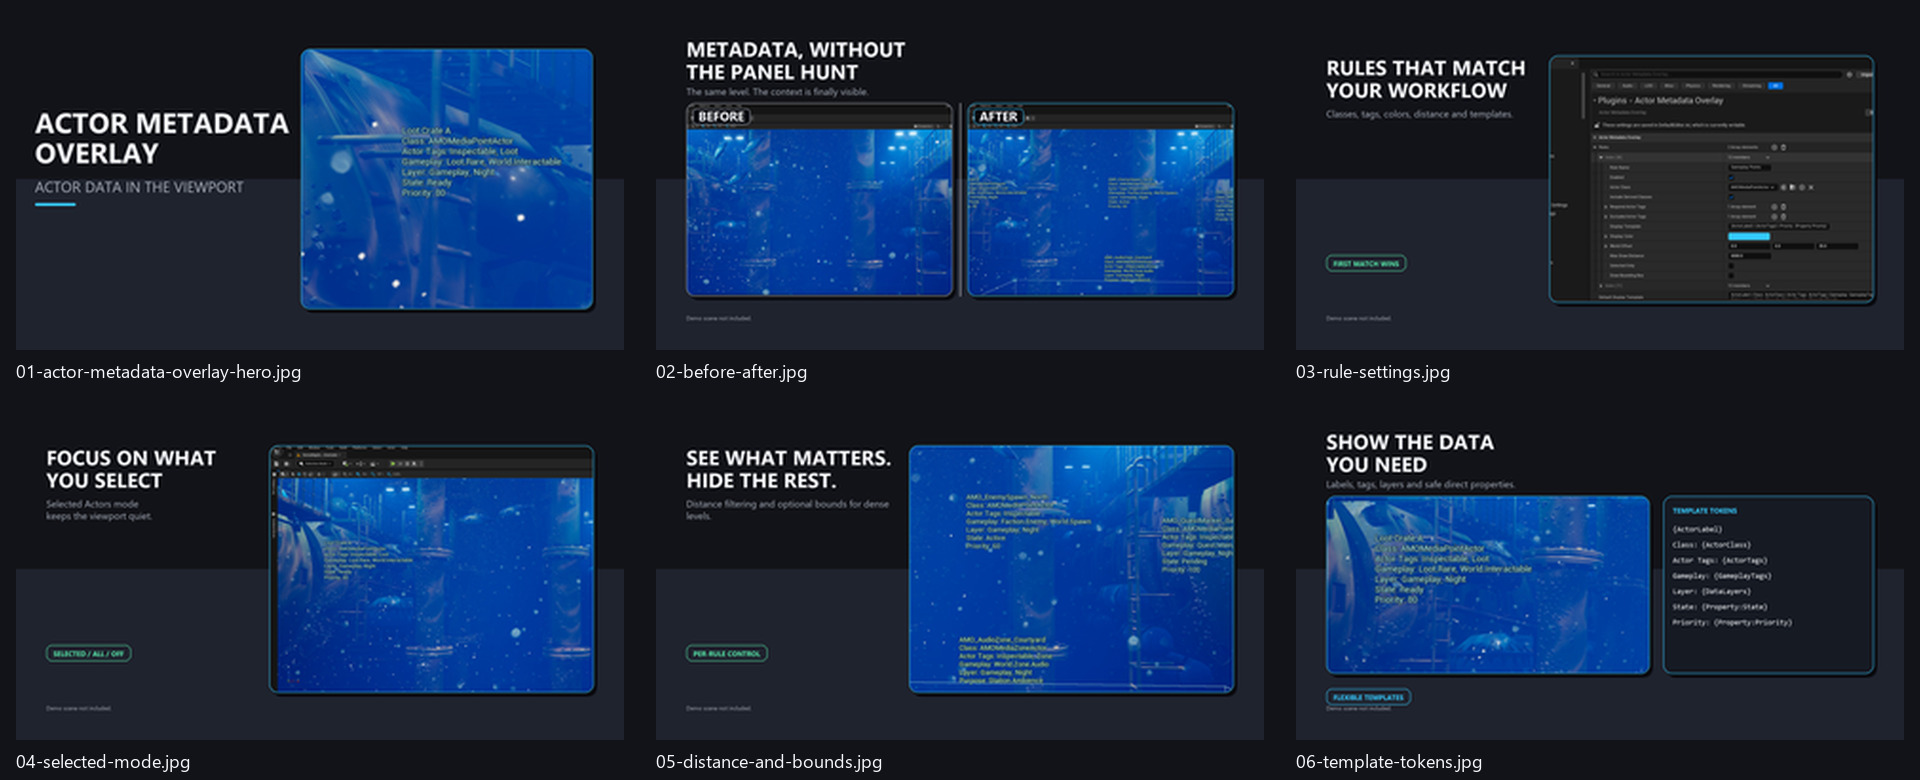
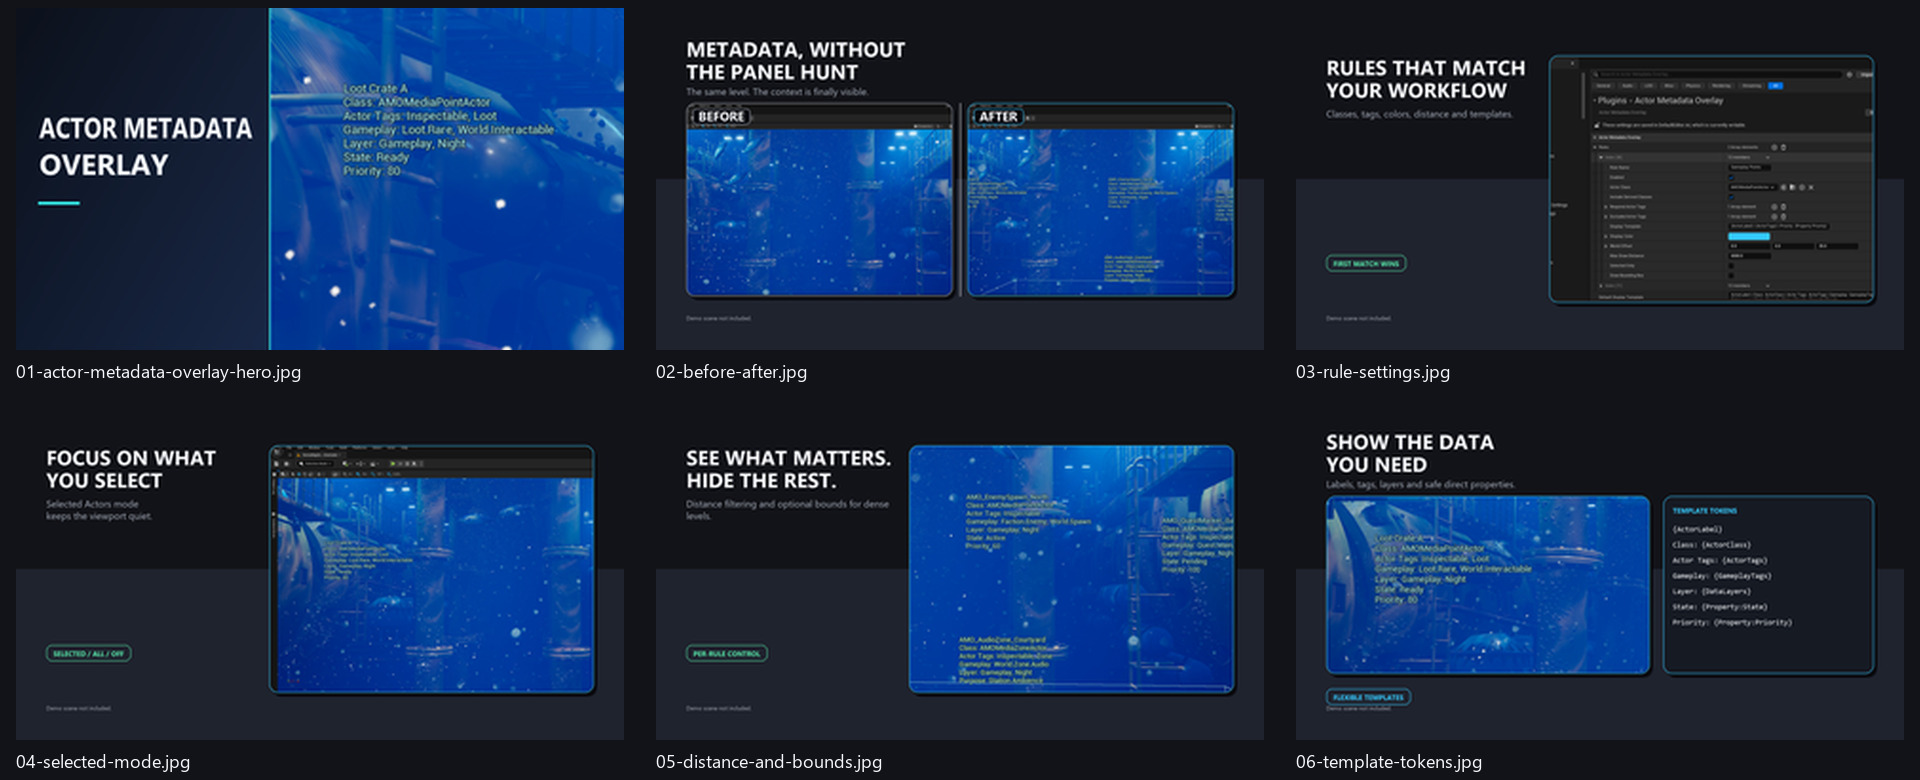
docs: adopt full-bleed Fab Hero

Changed region(s): [[0.0, 0.0, 0.3438, 0.4615]]

diff --git a/Marketing/Fab/source/generate-fab-media.py b/Marketing/Fab/source/generate-fab-media.py
@@ -1,12 +1,13 @@
 from __future__ import annotations
 
+import argparse
 import hashlib
 import json
 from datetime import datetime, timezone
 from pathlib import Path
 from typing import Iterable
 
-from PIL import Image, ImageColor, ImageDraw, ImageFont
+from PIL import Image, ImageColor, ImageDraw, ImageEnhance, ImageFont
 
 
 REPO_ROOT = Path(__file__).resolve().parents[3]
@@ -29,12 +30,11 @@ MEDIA = [
         "order": 1,
         "filename": "01-actor-metadata-overlay-hero.jpg",
         "role": "thumbnail",
-        "layout": "Hero",
+        "layout": "HeroFullBleed",
         "source": "hero-all.png",
-        "crop": "heroTight",
-        "displayCrop": "heroTight",
+        "crop": "heroFullBleedC",
         "title": "ACTOR METADATA\nOVERLAY",
-        "tagline": "ACTOR DATA IN THE VIEWPORT",
+        "tagline": "",
         "proof": "",
     },
     {
@@ -407,6 +407,73 @@ def layout_hero(spec: dict, screenshot: Image.Image) -> Image.Image:
     return image
 
 
+def draw_horizontally_fitted_title(
+    image: Image.Image,
+    text: str,
+    position: tuple[int, int],
+    max_width: int,
+) -> None:
+    used_font = font("bold", "heroTitle")
+    left, top, right, bottom = used_font.getbbox(text)
+    text_layer = Image.new("RGBA", (right - left + 8, bottom - top + 8), (0, 0, 0, 0))
+    text_draw = ImageDraw.Draw(text_layer)
+    text_draw.text(
+        (4 - left, 4 - top),
+        text,
+        font=used_font,
+        fill=ImageColor.getrgb(LAYOUT["layouts"]["HeroFullBleed"]["titleColor"]) + (255,),
+    )
+    if text_layer.width > max_width:
+        text_layer = text_layer.resize((max_width, text_layer.height), Image.Resampling.LANCZOS)
+    image.paste(text_layer, position, text_layer)
+
+
+def layout_hero_full_bleed(spec: dict, screenshot: Image.Image) -> Image.Image:
+    """Render the approved single-capture, full-bleed thumbnail Hero."""
+    layout = LAYOUT["layouts"]["HeroFullBleed"]
+    if spec["tagline"] or spec["proof"]:
+        raise ValueError("HeroFullBleed does not allow tagline or proof text")
+    title_lines = spec["title"].splitlines()
+    if len(title_lines) != 2:
+        raise ValueError("HeroFullBleed requires exactly two title lines")
+
+    left_width = layout["leftWidth"]
+    right_width = layout["rightWidth"]
+    if left_width + right_width != CANVAS_SIZE[0]:
+        raise ValueError("HeroFullBleed regions must fill the canvas width")
+
+    image = Image.new("RGB", CANVAS_SIZE, (0, 0, 0))
+    pixels = image.load()
+    gradient = layout["gradient"]
+    for y in range(CANVAS_SIZE[1]):
+        vertical = y / (CANVAS_SIZE[1] - 1)
+        for x in range(left_width):
+            horizontal = x / (left_width - 1)
+            pixels[x, y] = tuple(
+                int(
+                    gradient["base"][channel]
+                    + gradient["horizontal"][channel] * horizontal
+                    + gradient["vertical"][channel] * vertical
+                )
+                for channel in range(3)
+            )
+
+    adjusted_capture = ImageEnhance.Contrast(screenshot).enhance(layout["contrast"])
+    image.paste(fit_cover(adjusted_capture, (right_width, CANVAS_SIZE[1])), (left_width, 0))
+
+    draw = ImageDraw.Draw(image)
+    draw.rectangle(tuple(layout["dividerBox"]), fill=layout["accentColor"])
+    for title_line, position in zip(title_lines, layout["titlePositions"]):
+        draw_horizontally_fitted_title(
+            image,
+            title_line,
+            tuple(position),
+            layout["titleMaxWidth"],
+        )
+    draw.rectangle(tuple(layout["accentLine"]), fill=layout["accentColor"])
+    return image
+
+
 def layout_c(spec: dict, before: Image.Image, after: Image.Image) -> Image.Image:
     image = base_canvas()
     draw = ImageDraw.Draw(image)
@@ -459,33 +526,46 @@ def sha256(path: Path) -> str:
     return digest.hexdigest()
 
 
-def save_jpeg(image: Image.Image, path: Path) -> None:
+def save_jpeg(
+    image: Image.Image,
+    path: Path,
+    quality: int = 92,
+    optimize: bool = True,
+) -> None:
     path.parent.mkdir(parents=True, exist_ok=True)
-    quality = 92
+    current_quality = quality
     while True:
         image.convert("RGB").save(
             path,
             format="JPEG",
-            quality=quality,
-            optimize=True,
+            quality=current_quality,
+            optimize=optimize,
             subsampling=0,
         )
         if path.stat().st_size <= MAX_JPEG_BYTES:
             return
-        if quality <= 84:
+        if current_quality <= 84:
             raise RuntimeError(f"JPEG remains above 2.8 MB at quality 84: {path}")
-        quality -= 2
+        current_quality -= 2
 
 
-def make_review_outputs(finals: list[Path]) -> None:
+def make_review_outputs(finals: list[Path], hero_preview: Image.Image | None = None) -> None:
     preview_size = (LAYOUT["previews"]["width"], LAYOUT["previews"]["height"])
     REVIEW_ROOT.mkdir(parents=True, exist_ok=True)
     previews: list[tuple[Path, Image.Image]] = []
-    for final in finals:
+    for index, final in enumerate(finals):
+        if index == 0 and hero_preview is not None:
+            previews.append((final, hero_preview.convert("RGB").resize(preview_size, Image.Resampling.LANCZOS)))
+            continue
         with Image.open(final) as source:
             previews.append((final, source.convert("RGB").resize(preview_size, Image.Resampling.LANCZOS)))
 
-    save_jpeg(previews[0][1], REVIEW_ROOT / "thumbnail-preview-320x180.jpg")
+    save_jpeg(
+        previews[0][1],
+        REVIEW_ROOT / "thumbnail-preview-320x180.jpg",
+        quality=95 if hero_preview is not None else 92,
+        optimize=False if hero_preview is not None else True,
+    )
     gallery = Image.new("RGB", (preview_size[0] * 3, preview_size[1] * 2), color("background"))
     for index, (_, preview) in enumerate(previews):
         gallery.paste(preview, ((index % 3) * preview_size[0], (index // 3) * preview_size[1]))
@@ -645,13 +725,23 @@ def write_manifest(finals: list[Path], source_head: str, capture_project: str) -
         "captureEngine": "Unreal Engine 5.8 Level Editor viewport",
         "files": entries,
     }
-    (FAB_ROOT / "media-manifest.json").write_text(
-        json.dumps(manifest, indent=2) + "\n",
-        encoding="utf-8",
+    (FAB_ROOT / "media-manifest.json").write_bytes(
+        (json.dumps(manifest, indent=2) + "\n").encode("utf-8")
     )
 
 
+def parse_args() -> argparse.Namespace:
+    parser = argparse.ArgumentParser(description="Generate Actor Metadata Overlay Fab media.")
+    parser.add_argument(
+        "--hero-only",
+        action="store_true",
+        help="Regenerate only the approved Hero and refresh review/manifest outputs without rewriting gallery finals.",
+    )
+    return parser.parse_args()
+
+
 def main() -> None:
+    args = parse_args()
     source_head, capture_project = parse_source_head()
     validate_all_tokens_capture()
     validate_preview_check()
@@ -681,30 +771,56 @@ def main() -> None:
     if unexpected_existing:
         raise RuntimeError(f"final/ contains unexpected files before generation: {unexpected_existing}")
 
-    for spec in MEDIA:
-        if spec["layout"] == "C":
-            before = load_source(spec["sources"][0], spec["displayCrops"][0], spec["displaySources"][0])
-            after = load_source(spec["sources"][1], spec["displayCrops"][1], spec["displaySources"][1])
-            rendered = layout_c(spec, before, after)
-        else:
-            screenshot = load_source(
-                spec["source"],
-                spec.get("displayCrop", spec["crop"]),
-                spec.get("displaySource"),
-            )
-            if spec["layout"] == "Hero":
-                rendered = layout_hero(spec, screenshot)
-            elif spec["layout"] == "A":
-                rendered = layout_a(spec, screenshot)
-            elif spec["layout"] == "B":
-                rendered = layout_b(spec, screenshot)
-            elif spec["layout"] == "AToken":
-                rendered = layout_a_tokens(spec, screenshot)
-            else:
-                raise ValueError(f"Unknown layout: {spec['layout']}")
-        save_jpeg(rendered, FINAL_ROOT / spec["filename"])
-
     finals = [FINAL_ROOT / item["filename"] for item in MEDIA]
+    preserved_gallery_hashes = {
+        final.name: sha256(final)
+        for final in finals[1:]
+        if final.is_file()
+    }
+    hero_preview: Image.Image | None = None
+
+    if args.hero_only:
+        hero_spec = MEDIA[0]
+        screenshot = load_source(hero_spec["source"], hero_spec["crop"])
+        rendered = layout_hero_full_bleed(hero_spec, screenshot)
+        hero_preview = rendered.copy()
+        save_jpeg(
+            rendered,
+            FINAL_ROOT / hero_spec["filename"],
+            quality=95,
+            optimize=False,
+        )
+        for final in finals[1:]:
+            if not final.is_file():
+                raise FileNotFoundError(f"Hero-only mode requires existing gallery final: {final}")
+            if sha256(final) != preserved_gallery_hashes.get(final.name):
+                raise RuntimeError(f"Hero-only mode changed a gallery final: {final}")
+    else:
+        for spec in MEDIA:
+            if spec["layout"] == "C":
+                before = load_source(spec["sources"][0], spec["displayCrops"][0], spec["displaySources"][0])
+                after = load_source(spec["sources"][1], spec["displayCrops"][1], spec["displaySources"][1])
+                rendered = layout_c(spec, before, after)
+            else:
+                screenshot = load_source(
+                    spec["source"],
+                    spec.get("displayCrop", spec["crop"]),
+                    spec.get("displaySource"),
+                )
+                if spec["layout"] == "HeroFullBleed":
+                    rendered = layout_hero_full_bleed(spec, screenshot)
+                elif spec["layout"] == "Hero":
+                    rendered = layout_hero(spec, screenshot)
+                elif spec["layout"] == "A":
+                    rendered = layout_a(spec, screenshot)
+                elif spec["layout"] == "B":
+                    rendered = layout_b(spec, screenshot)
+                elif spec["layout"] == "AToken":
+                    rendered = layout_a_tokens(spec, screenshot)
+                else:
+                    raise ValueError(f"Unknown layout: {spec['layout']}")
+            save_jpeg(rendered, FINAL_ROOT / spec["filename"])
+
     actual_final_names = sorted(path.name for path in FINAL_ROOT.glob("*.jpg"))
     expected_final_names = sorted(expected_final_names)
     if actual_final_names != expected_final_names:
@@ -712,9 +828,18 @@ def main() -> None:
     total_bytes = sum(path.stat().st_size for path in finals)
     if total_bytes >= MAX_TOTAL_BYTES:
         raise RuntimeError(f"Final image total is >= 20 MB: {total_bytes}")
-    make_review_outputs(finals)
+    make_review_outputs(finals, hero_preview)
     write_manifest(finals, source_head, capture_project)
-    print(json.dumps({"finals": [path.name for path in finals], "totalBytes": total_bytes}, indent=2))
+    print(
+        json.dumps(
+            {
+                "mode": "hero-only" if args.hero_only else "full",
+                "finals": [path.name for path in finals],
+                "totalBytes": total_bytes,
+            },
+            indent=2,
+        )
+    )
 
 
 if __name__ == "__main__":

diff --git a/Marketing/Fab/README.md b/Marketing/Fab/README.md
@@ -6,14 +6,14 @@ This directory contains the six Fab listing images for Actor Metadata Overlay v2
 
 Actor Metadata Overlay keeps actor labels, tags, Gameplay Tags, Data Layers, direct properties, rule matches, distance filtering, and optional bounds visible in the viewport. The six images communicate the primary workflow in upload order:
 
-1. `final/01-actor-metadata-overlay-hero.jpg` — `ACTOR METADATA OVERLAY`; a Deep Water Station viewport with four real rule-matched overlays and a zone bounding box.
+1. `final/01-actor-metadata-overlay-hero.jpg` — `ACTOR METADATA OVERLAY`; a thumbnail-first full-bleed Deep Water Station viewport showing one prominent real Actor Metadata Overlay. The Hero is generated from one real UE capture and shows only the product name and the real overlay.
 2. `final/02-before-after.jpg` — `METADATA, WITHOUT THE PANEL HUNT`; the same map, camera, viewport, lighting, selection, and Game View-off state before and after changing only Display Mode from `Off` to `All Matching Actors`.
 3. `final/03-rule-settings.jpg` — `RULES THAT MATCH YOUR WORKFLOW`; the real **Project Settings > Plugins > Actor Metadata Overlay** page with rule fields such as Actor Class, Required/Excluded Actor Tags, Display Template, Display Color, Max Draw Distance, and Draw Bounding Box.
 4. `final/04-selected-mode.jpg` — `FOCUS ON WHAT YOU SELECT`; one selected actor with the exact two-line tagline `Selected Actors mode` / `keeps the viewport quiet.`.
 5. `final/05-distance-and-bounds.jpg` — `SEE WHAT MATTERS. HIDE THE REST.`; near/far visibility and a per-rule zone bound in the finished demo scene.
 6. `final/06-template-tokens.jpg` — `SHOW THE DATA YOU NEED`; a real overlay containing actor, class, actor tags, Gameplay Tags, Data Layers, state, and priority beside the matching template token card.
 
-The left-bottom disclaimer `Demo scene not included.` appears in every final image. No marketplace badges, prices, arrows, fabricated Unreal UI, or AI-generated imagery are used.
+The Hero does not contain `Demo scene not included.`. Gallery images 02–06 include that disclosure because the Deep Water Station demo scene is not included with the product. No marketplace badges, prices, arrows, fabricated Unreal UI, or AI-generated imagery are used.
 
 ## Generate and validate
 
@@ -23,7 +23,11 @@ From the repository root, after creating the temporary UE capture host and raw c
 python Marketing/Fab/source/generate-fab-media.py
 ```
 
-The JSON-driven generator reads `source/media-layout.json`, validates the seven actual raw UE captures in `.verification/fab-media-v4/raw/` at least 2560x1440, requires the Preview check, the Before/After validation, and the Gameplay Tags validation, then writes exactly six 1920x1080 RGB JPEGs to `final/` and the three review images to `review/`. The generator uses readable copies of the same real UE captures for presentation cropping; it never draws overlay content onto a background.
+The JSON-driven generator reads `source/media-layout.json`, validates the seven actual raw UE captures in `.verification/fab-media-v4/raw/` at least 2560x1440, requires the Preview check, the Before/After validation, and the Gameplay Tags validation, then writes exactly six 1920x1080 RGB JPEGs to `final/` and the three review images to `review/`. The Hero uses the `HeroFullBleed` layout, the fixed `heroFullBleedC` crop, and one real `hero-all.png` capture; it never draws overlay content onto a background. To regenerate only the approved Hero while preserving gallery finals 02–06, use:
+
+```powershell
+python Marketing/Fab/source/generate-fab-media.py --hero-only
+```
 
 Generating `final/06-template-tokens.jpg` requires `.verification/fab-media-v4/raw/all-tokens-validation.json` and `.verification/fab-media-v4/raw/all-tokens-overlay-proof.png`. The generator fails unless the record proves the required Gameplay Tag interface, Gameplay Tags, actor tags, Data Layers, state, priority, exact Gameplay line, raw capture name, and completed visual check.
 
@@ -33,4 +37,4 @@ Upload the six files under `final/` in the numbered order above. Use `final/01-a
 
 The upload archive contains only the six final JPEGs at its root. The source archive contains the raw captures, validation JSON and diff evidence, generator, layout, manifest, finals, review images, and provenance while excluding the Deep Water Station source assets, Host Project, Binaries, Intermediate, Saved, DerivedDataCache, credentials, and Git data. The User Review archive additionally includes the Before/After captures, diff, and Gameplay Tags proof for visual inspection.
 
-The outer labels, cards, gradient, and token example are deterministic presentation layers around real Unreal Engine captures. `Demo scene not included.` is a disclosure, not a product feature claim.
+The Hero's dark gradient, product title, accent line, and full-bleed crop are deterministic presentation layers around one real Unreal Engine capture. Gallery cards and the token example are also deterministic presentation layers around real Unreal Engine captures. `Demo scene not included.` is a disclosure on gallery images 02–06, not a product feature claim.
